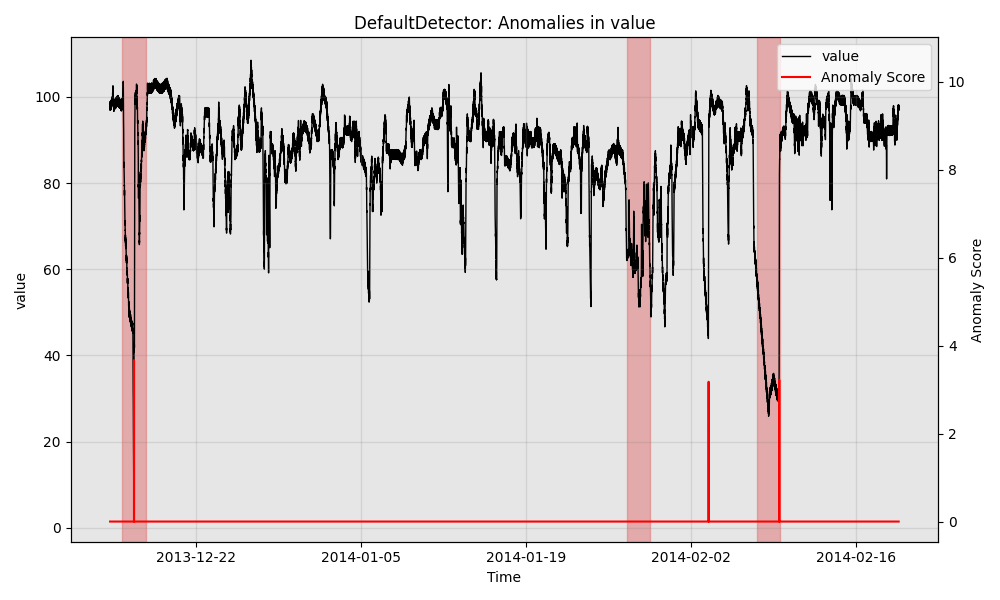
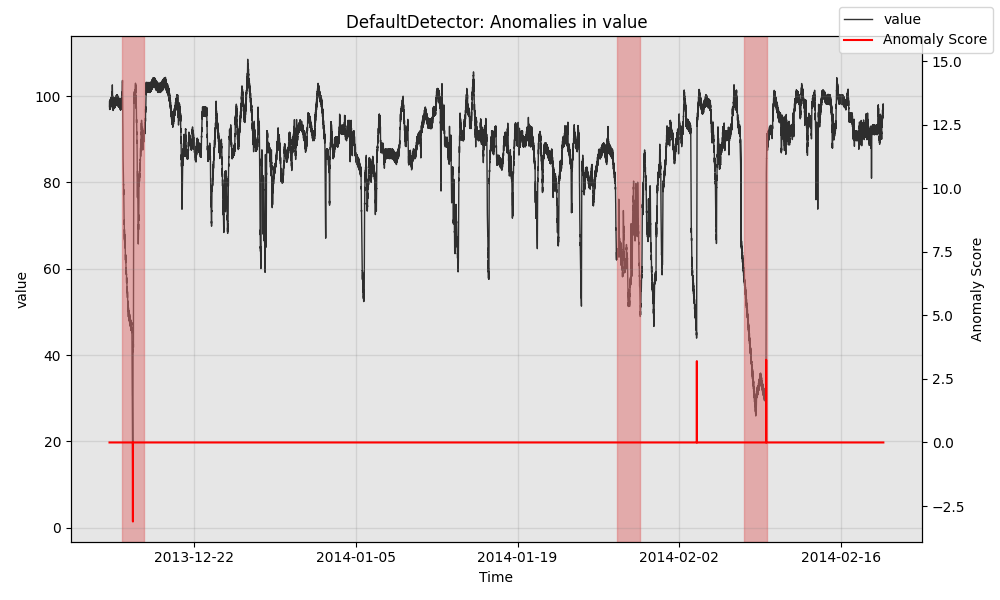
Update figures.

diff --git a/merlion/plot.py b/merlion/plot.py
@@ -263,7 +263,7 @@ class Figure:
         ax.set_xlabel("Time")
         ax.set_ylabel(metric_name)
         ax.set_title(title if title else metric_name)
-        ax.legend(lines, [l.get_label() for l in lines])
+        fig.legend(lines, [l.get_label() for l in lines])
         fig.tight_layout()
         return fig, ax
 

diff --git a/docs/source/merlion.dashboard.rst b/docs/source/merlion.dashboard.rst
@@ -14,7 +14,7 @@ The app has three tabs. The first one is called "file manager" in which you can 
 (the datasets will be stored in ``~/merlion/data``), check basic statistics of the datasets, visualize
 the time series data, or download a particular trained model:
 
-.. image:: _static/dashboard_file.png
+.. image:: _static/figures/dashboard_file.png
 
 You can click "Drag & Drop" to upload the file to the ``merlion`` folder (our app is designed to support
 docker deployment, so it doesn't allow to open a local file directly). If you use the app on a local
@@ -29,7 +29,7 @@ and click the download button. The model and its configuration file will be comp
 
 The second tab is used to train a time series anomaly detection model:
 
-.. image:: _static/dashboard_anomaly.png
+.. image:: _static/figures/dashboard_anomaly.png
 
 The app provides full support for these models, where you can choose different algorithms and set particular parameters
 according to your needs. To train a model, you need to:
@@ -56,7 +56,7 @@ label column.
 
 The third tab is used to train a time series forecasting model supported in Merlion:
 
-.. image:: _static/dashboard_forecast.png
+.. image:: _static/figures/dashboard_forecast.png
 
 The app provides full support for these models, where you can choose different algorithms and set particular parameters
 according to your needs. To train a model, you need to:

diff --git a/README.md b/README.md
@@ -128,9 +128,9 @@ To use it, install Merlion with the optional ``dashboard`` dependency (i.e.
 You can view the dashboard at http://localhost:8050.
 Below, we show some screenshots of the dashboard for both anomaly detection and forecasting.
 
-![anomaly dashboard](https://github.com/salesforce/Merlion/raw/main/docs/source/_static/dashboard_anomaly.png)
+![anomaly dashboard](https://github.com/salesforce/Merlion/raw/main/figures/dashboard_anomaly.png)
 
-![forecast dashboard](https://github.com/salesforce/Merlion/raw/main/docs/source/_static/dashboard_forecast.png)
+![forecast dashboard](https://github.com/salesforce/Merlion/raw/main/figures/dashboard_forecast.png)
 
 To help you get started with using Merlion in your own code, we provide below some minimal examples using Merlion
 default models for both anomaly detection and forecasting.
@@ -187,7 +187,7 @@ print(f"Precision: {p:.4f}, Recall: {r:.4f}, F1: {f1:.4f}\n"
 ```
 ```
 Precision: 0.6667, Recall: 0.6667, F1: 0.6667
-Mean Time To Detect: 1 days 10:30:00
+Mean Time To Detect: 1 days 10:22:30
 ```
 ### Forecasting
 Here, we show the code to replicate the results from the forecasting dashboard above.
